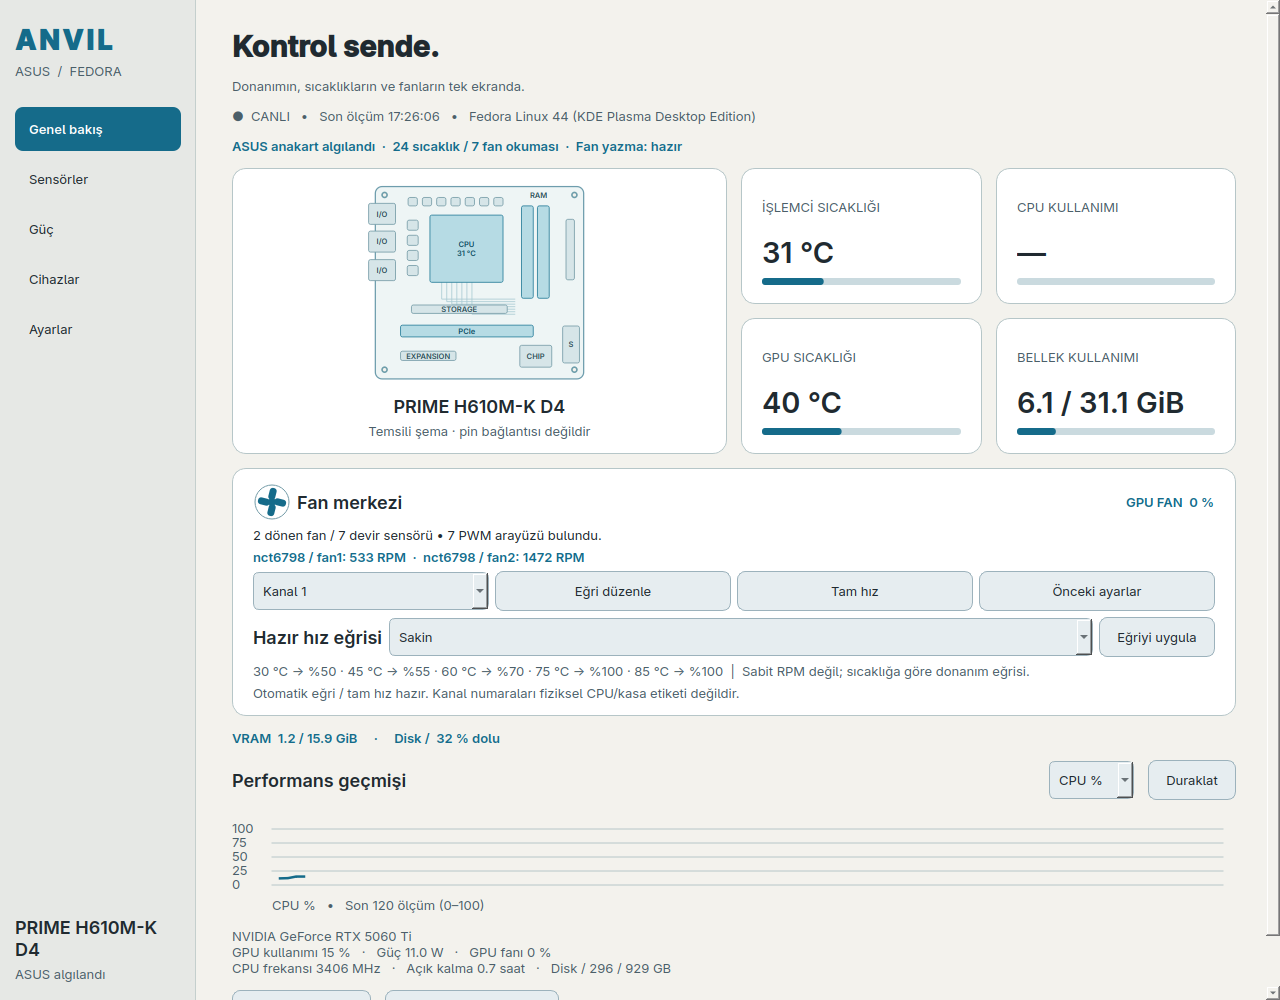
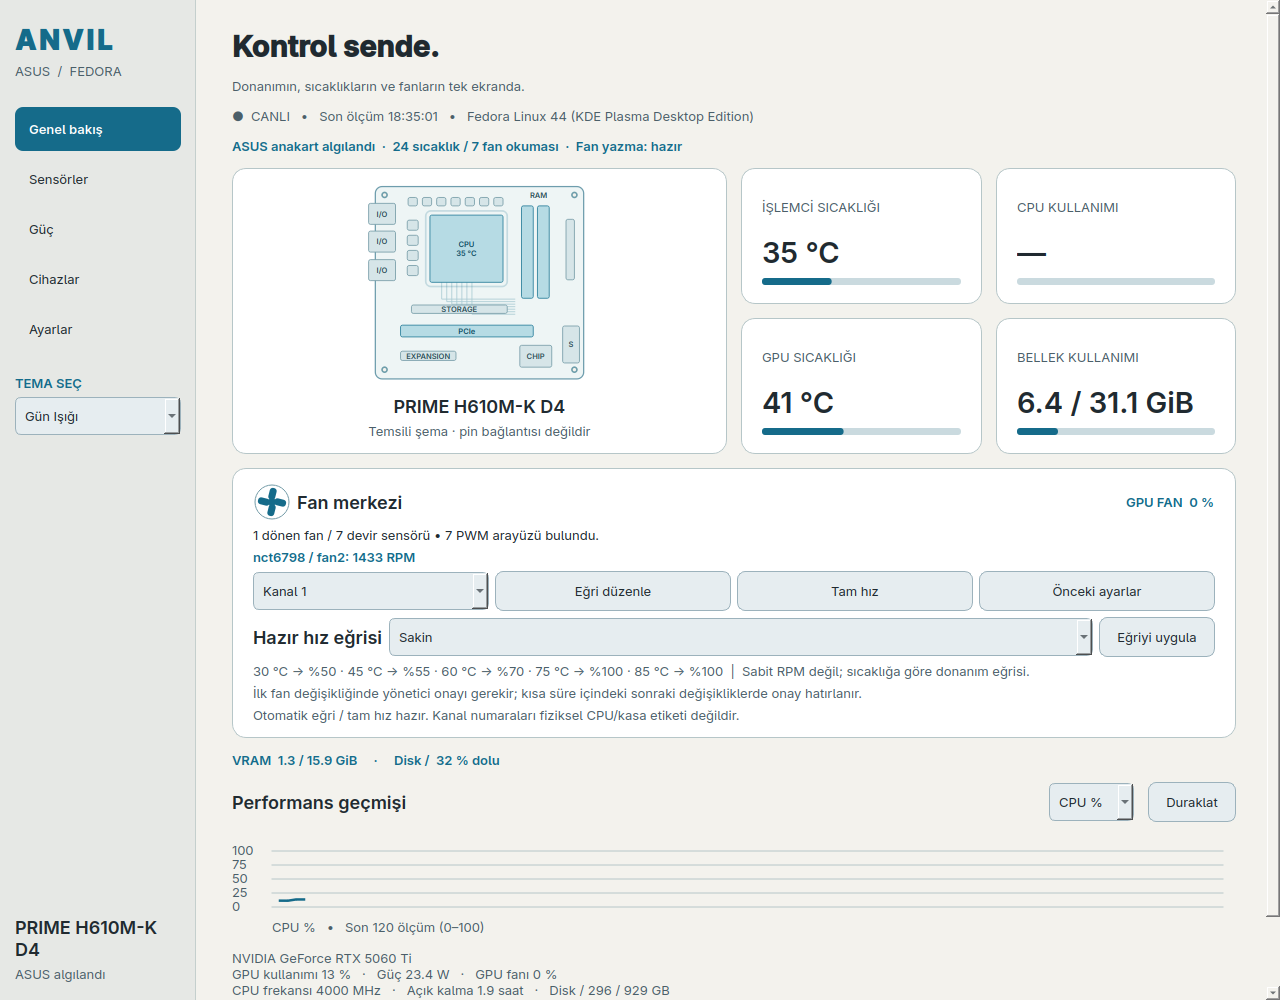
Expose theme chooser and retain scoped fan authorization

diff --git a/anvil/app.py b/anvil/app.py
@@ -7,7 +7,7 @@ from collections import deque
 from datetime import datetime
 from pathlib import Path
 
-from PySide6.QtCore import Qt, QThread, Signal, QTimer, QSettings, QProcess, QRectF, QPointF, QVariantAnimation, QEasingCurve
+from PySide6.QtCore import Qt, QThread, Signal, QTimer, QSettings, QProcess, QRectF, QPointF, QVariantAnimation, QEasingCurve, QSignalBlocker
 from PySide6.QtGui import QColor, QPainter, QPen, QPainterPath, QIcon, QFont, QFontDatabase
 from PySide6.QtWidgets import (QApplication, QMainWindow, QWidget, QHBoxLayout, QVBoxLayout,
     QLabel, QPushButton, QFrame, QStackedWidget, QGridLayout, QTableWidget, QTableWidgetItem,
@@ -407,6 +407,15 @@ class Window(QMainWindow):
             b.clicked.connect(lambda checked=False, n=i: self.navigate(n))
             self.nav.append(b)
             sl.addWidget(b)
+        sl.addSpacing(18)
+        sl.addWidget(label('TEMA SEÇ', 'accent'))
+        self.quick_theme = QComboBox()
+        self.quick_theme.setAccessibleName('Tema seçimi')
+        for key, name in THEME_NAMES.items():
+            self.quick_theme.addItem(name, key)
+        self.quick_theme.setCurrentIndex(self.quick_theme.findData(self.theme_key))
+        self.quick_theme.currentIndexChanged.connect(lambda: self.apply_theme(self.quick_theme.currentData()))
+        sl.addWidget(self.quick_theme)
         sl.addStretch()
         sl.addWidget(label(self.monitor.identity['board'], 'section'))
         sl.addWidget(label('ASUS algılandı' if self.monitor.identity['asus'] else 'ASUS dışı · genel izleme', 'muted'))
@@ -542,6 +551,7 @@ class Window(QMainWindow):
         fv.addLayout(preset_row)
         self.preset_info = label('', 'muted')
         fv.addWidget(self.preset_info)
+        fv.addWidget(label('İlk fan değişikliğinde yönetici onayı gerekir; kısa süre içindeki sonraki değişikliklerde onay hatırlanır.', 'muted'))
         self.update_preset_info()
         self.fan_feedback = label('Kontrol desteği denetleniyor…', 'muted')
         fv.addWidget(self.fan_feedback)
@@ -679,7 +689,7 @@ class Window(QMainWindow):
         self.theme_combo.setCurrentIndex(self.theme_combo.findData(self.theme_key))
         self.theme_combo.currentIndexChanged.connect(lambda: self.apply_theme(self.theme_combo.currentData()))
         l.addWidget(self.theme_combo)
-        l.addWidget(label('Tema anında uygulanır ve sonraki açılışta korunur.', 'muted'))
+        l.addWidget(label('Tema sol menüdeki TEMA SEÇ alanından da değiştirilebilir; tercih sonraki açılışta korunur.', 'muted'))
         l.addWidget(label('Yenileme aralığı', 'section'))
         combo = QComboBox()
         for seconds in [1, 2, 5, 10]:
@@ -717,6 +727,11 @@ class Window(QMainWindow):
         self.theme_key = resolve_theme(key)
         if persist:
             self.settings.setValue('theme', self.theme_key)
+        for selector in (self.quick_theme, self.theme_combo):
+            index = selector.findData(self.theme_key)
+            if selector.currentIndex() != index:
+                with QSignalBlocker(selector):
+                    selector.setCurrentIndex(index)
         colors = THEMES[self.theme_key]
         QApplication.instance().setStyleSheet(style_for_theme(self.theme_key))
         self.board.theme = colors

diff --git a/tests/test_theme.py b/tests/test_theme.py
@@ -54,12 +54,17 @@ class ThemeTests(unittest.TestCase):
                 self.assertGreaterEqual(index, 0)
                 first.theme_combo.setCurrentIndex(index)
                 self.assertEqual(settings.value('theme'), 'night')
+                self.assertEqual(first.quick_theme.currentData(), 'night')
                 self.assertEqual(first.board.theme, THEMES['night'])
                 self.assertEqual(first.chart.theme, THEMES['night'])
                 self.assertEqual(first.rotor.accent_color, THEMES['night']['accent'])
                 self.assertTrue(all(m.accent_color == THEMES['night']['accent']
                                     for m in first.meters.values()))
                 self.assertEqual(app.styleSheet(), style_for_theme('night'))
+                first.quick_theme.setCurrentIndex(first.quick_theme.findData('daylight'))
+                self.assertEqual(first.theme_combo.currentData(), 'daylight')
+                self.assertEqual(settings.value('theme'), 'daylight')
+                first.theme_combo.setCurrentIndex(index)
             finally:
                 first.quit_app()
             with patch('anvil.app.QSettings', return_value=settings):
@@ -67,6 +72,7 @@ class ThemeTests(unittest.TestCase):
             try:
                 self.assertEqual(reopened.theme_key, 'night')
                 self.assertEqual(reopened.theme_combo.currentData(), 'night')
+                self.assertEqual(reopened.quick_theme.currentData(), 'night')
                 self.assertEqual(app.styleSheet(), style_for_theme('night'))
             finally:
                 reopened.quit_app()

diff --git a/tests/test_policy.py b/tests/test_policy.py
@@ -1,0 +1,25 @@
+import unittest
+from pathlib import Path
+from xml.etree import ElementTree
+
+
+POLICY = Path(__file__).resolve().parents[1] / 'packaging' / 'io.anvil.Control.policy'
+
+
+class PolicyTests(unittest.TestCase):
+    def test_fan_authorization_is_short_lived_and_helper_scoped(self):
+        root = ElementTree.parse(POLICY).getroot()
+        actions = root.findall('action')
+        self.assertEqual(len(actions), 1)
+        action = actions[0]
+        self.assertEqual(action.attrib['id'], 'io.anvil.Control.fan-control')
+        self.assertEqual(action.findtext('defaults/allow_any'), 'no')
+        self.assertEqual(action.findtext('defaults/allow_inactive'), 'no')
+        self.assertEqual(action.findtext('defaults/allow_active'), 'auth_admin_keep')
+        annotations = {node.attrib['key']:node.text for node in action.findall('annotate')}
+        self.assertEqual(annotations, {
+            'org.freedesktop.policykit.exec.path':'/usr/libexec/anvil-fan-helper'})
+
+
+if __name__ == '__main__':
+    unittest.main()

diff --git a/tests/smoke_ui.py b/tests/smoke_ui.py
@@ -88,10 +88,12 @@ def check():
         assert w.preset_combo.count() == 3
         assert 'Sabit RPM değil' in w.preset_info.text()
         assert w.theme_combo.count() == len(THEMES) == 7
+        assert w.quick_theme.isVisible(), 'Theme chooser should be visible in the sidebar'
         for key in THEMES:
-            w.theme_combo.setCurrentIndex(w.theme_combo.findData(key))
+            w.quick_theme.setCurrentIndex(w.quick_theme.findData(key))
             app.processEvents()
             assert w.board.theme == THEMES[key]
+            assert w.theme_combo.currentData() == key
         w.theme_combo.setCurrentIndex(w.theme_combo.findData('anvil'))
         app.processEvents()
         w.grab().save(str(Path(__file__).resolve().parents[1] / 'docs' / 'overview.png'))

diff --git a/anvil/__init__.py b/anvil/__init__.py
@@ -1,1 +1,1 @@
-__version__ = '0.8.0'
+__version__ = '0.9.0'

diff --git a/README.md b/README.md
@@ -33,7 +33,7 @@ Bu nedenle uygulama farklı ASUS sistemlerinde genel izleme için kullanılabili
 [Sürümlerden](https://github.com/Tubix777/anvil-control/releases) RPM’yi indirin:
 
 ```bash
-sudo dnf install ./anvil-control-0.8.0-1.fc44.noarch.rpm
+sudo dnf install ./anvil-control-0.9.0-1.fc44.noarch.rpm
 anvil-control
 ```
 
@@ -45,9 +45,11 @@ Kaldırma: `sudo dnf remove anvil-control`. Paketi kaldırmadan önce fan ayarı
 
 Beş bölüm: **Genel bakış**, **Sensörler**, **Güç**, **Cihazlar** (RGB, envanter ve tanılama) ve **Ayarlar**. Ana sayfada canlı ölçümler ve fan paneli; ayrıntılarda arama, grafikler, CSV ölçümleri ve isteğe bağlı JSON tanılama bulunur. Veriler yerelde kalır; kendiliğinden gönderilmez.
 
-**Ayarlar → Görünüm** bölümünde Anvil Sarı, Gece Mavisi, Orman Yeşili, Bakır Kızılı, Mor Gece, Grafit ve Gün Işığı seçilebilir. Tema anında değişir ve sonraki açılışta korunur. KDE uygulama menüsündeki Anvil Control başlatıcısı görev çubuğuna sabitlenebilir; RPM özel simgeyi de kurar.
+**Sol menü → TEMA SEÇ** alanında Anvil Sarı, Gece Mavisi, Orman Yeşili, Bakır Kızılı, Mor Gece, Grafit ve Gün Işığı seçilebilir. Aynı seçim Ayarlar bölümünde de bulunur. Tema anında değişir ve sonraki açılışta korunur. KDE uygulama menüsündeki Anvil Control başlatıcısı görev çubuğuna sabitlenebilir; RPM özel simgeyi de kurar.
 
 Ana sayfadaki fan merkezinde **Sakin**, **Dengeli** ve **Yüksek soğutma** hazır sıcaklık eğrileri seçilebilir; **Eğriyi uygula** seçili, doğrulanmış anakart kanalına yazar. Bunlar sabit RPM hedefleri değildir. 75 ve 85 °C noktalarında tüm hazır eğriler %100 PWM uygular. **Önceki ayarlar** bu açılıştaki ilk değişiklik öncesine döner. GPU fanı için yazma denetimi sunulmaz.
+
+Fan değişiklikleri yönetici onayı ister. Yalnızca `/usr/libexec/anvil-fan-helper` için tanımlanan polkit yetkisi kısa süreli olarak hatırlanır; art arda yapılan değişikliklerde aynı şifre penceresi tekrar çıkmaz. Süre dolduğunda yeni onay gerekir. Genel root erişimi veya şifresiz, sınırsız fan yazımı verilmez.
 
 ## Doğrulanmış fan desteği
 
@@ -64,7 +66,7 @@ python3 -m unittest discover -s tests -v
 QT_QPA_PLATFORM=offscreen PYTHONPATH=. python3 tests/smoke_ui.py
 ```
 
-30 birim testi ve gerçek sensör telemetrisiyle beş bölümlü arayüz testi. Smoke testi yalnızca mevcut sistemde çalışır. Bu bağımsız alpha proje ASUS/Fedora tarafından onaylanmamıştır. Anakart çizimi temsili şemadır, pin bağlantısı değildir. AMD GPU desteği sysfs fikstürleriyle sınandı; gerçek AMD donanımında henüz doğrulanmadı. JSON tanılama raporunu paylaşmadan önce içeriğini inceleyin; raporda kart/BIOS, PCI ve sensör bilgileri bulunur.
+31 birim testi ve gerçek sensör telemetrisiyle beş bölümlü arayüz testi. Smoke testi yalnızca mevcut sistemde çalışır. Bu bağımsız alpha proje ASUS/Fedora tarafından onaylanmamıştır. Anakart çizimi temsili şemadır, pin bağlantısı değildir. AMD GPU desteği sysfs fikstürleriyle sınandı; gerçek AMD donanımında henüz doğrulanmadı. JSON tanılama raporunu paylaşmadan önce içeriğini inceleyin; raporda kart/BIOS, PCI ve sensör bilgileri bulunur.
 
 ## English
 

diff --git a/CHANGELOG.md b/CHANGELOG.md
@@ -1,5 +1,10 @@
 # Değişiklikler
 
+## 0.9.0 — 2026-09-23
+
+- Tema seçimi her sayfada görünen sol menüye taşındı; Ayarlar seçimiyle eşzamanlı çalışır.
+- Fan işlemleri için yalnızca paketli, kısıtlı yardımcıya ait kısa süreli yönetici yetkisi eklenerek ardışık mod değişikliklerinde tekrar şifre sorulması azaltıldı. İlk işlem yine yönetici onayı ister; yetki süresi dolunca tekrar sorulur.
+
 ## 0.8.0 — 2026-09-23
 
 - Farklı ASUS anakartlarında mevcut Linux sensör, GPU, güç profili ve fan arayüzlerini otomatik gösteren destek tablosu eklendi. Doğrulanmamış modellerde izleme açık, fan yazma kapalıdır.
